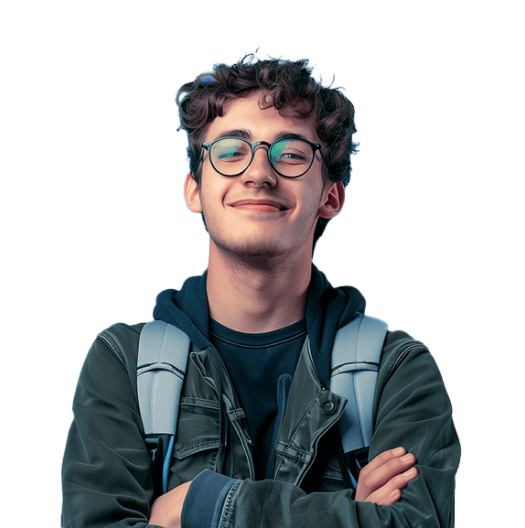
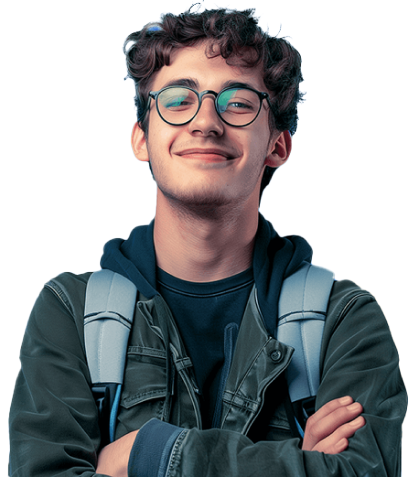
inicio media query

diff --git a/projeto/src/components/ParteAzul/Style.js b/projeto/src/components/ParteAzul/Style.js
@@ -1,42 +1,70 @@
 import styled from "styled-components"
 
 const TopPart = styled.header `
-  background-color: rgb(0, 37, 85);
-  padding-left: 100px;
-  padding-right: 100px;
 
-  display: flex;
-  justify-content: space-between;
-  align-items: center;
-  #topnav {
-    margin-top: 20px;
-    display: flex;
-    justify-content: center;
-
-  }
-  #titulo {
-    display: flex;
-    flex-direction: column;
-    gap: 10px;
+  @media (min-width: 1000px) {
     
+    background-color: rgb(0, 37, 85);
+    padding-left: 100px;
+    padding-right: 100px;
+  
+    display: flex;
+    justify-content: space-between;
+    align-items: center;
+    #titulo {
+      display: flex;
+      flex-direction: column;
+      gap: 10px;
+      
+    }
+    #tituloreal {
+      font-weight: bold;
+      font-size: 54px;
+    }
+    #texto {
+      font-size: 18px;
+      width: 450px;
+      font-weight: lighter;
+    }
+    p {
+      color: white;
+    }
+    img {
+      position: relative;
+      top: 4px;
+      width: 500px;
+    }
   }
-  #tituloreal {
-    font-weight: bold;
-    font-size: 54px;
+  
+  @media (max-width:400px) {
+    padding-left: 20px;
+    padding-right: 20px;
+    background-color: rgb(0, 37, 85);
+    padding-top: 20px;
+    #titulo {
+      display: flex;
+      flex-direction: column;
+      gap: 20px;
+      width: fit-content;
+    }
+    #texto {
+      font-size: 18px;
+      font-weight: lighter;
+    }
+    #tituloreal {
+      font-weight: bold;
+      font-size: 32px;
+    }
+    p {
+      color: white;
+    }
+    img {
+
+      width: 300px;
+
+    }
   }
-  #texto {
-    font-size: 18px;
-    width: 450px;
-    font-weight: lighter;
-  }
-  p {
-    color: white;
-  }
-  img {
-    height: 27rem;
-    position: relative;
-    top: 4px;
-  }
+
 
 `
 
